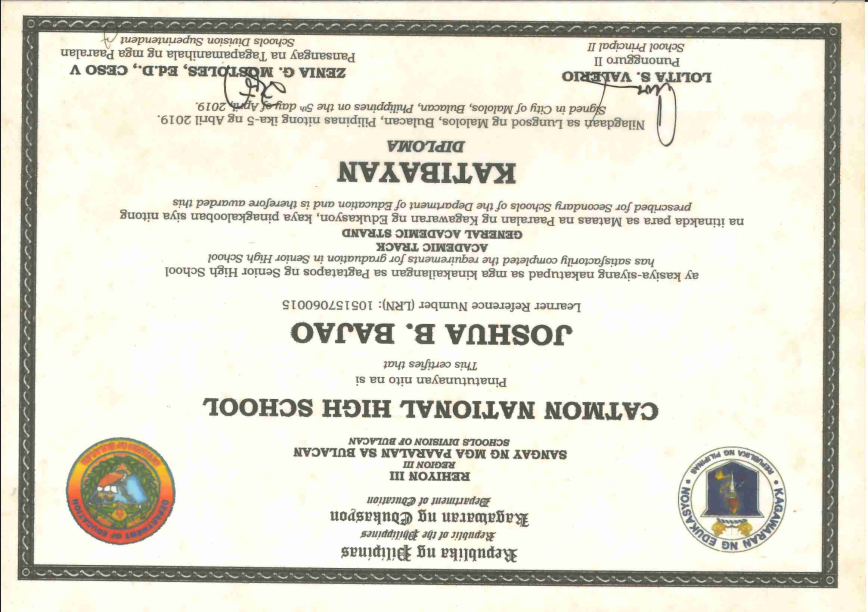
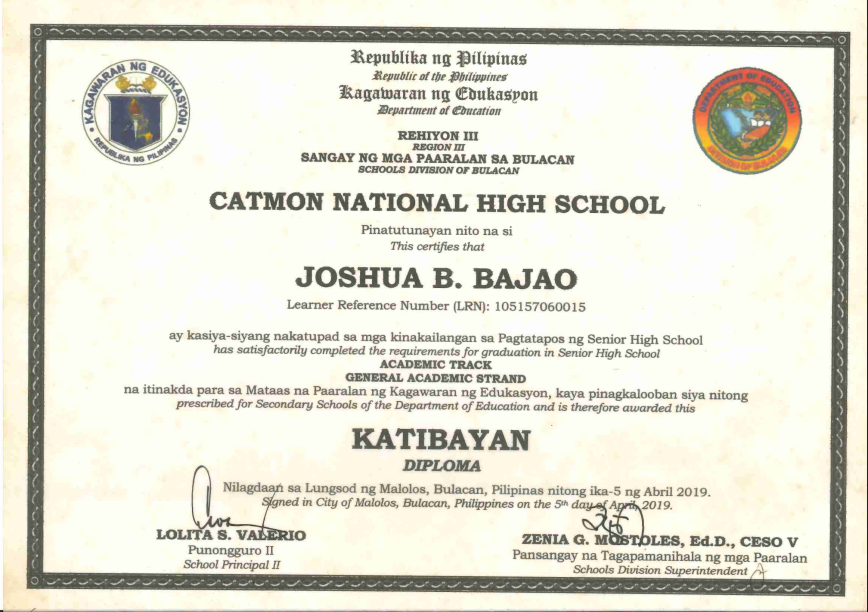
Fix two certificates left upside down by the earlier rotation fix
The high school diploma and IOCP verification letter needed the
opposite 90-degree rotation from the other two certificates, so the
earlier blanket rotation flipped them 180 degrees instead of
correcting them. Rotate them the remaining 180 degrees and bump their
cache-busting query so the fix shows immediately.

diff --git a/about.html b/about.html
@@ -162,8 +162,8 @@
                             <div class="cert-carousel-track">
                                 <a class="cert-carousel-item" href="assets/certificates/filipino-institute-hr-admin-certificate.png?v=2" target="_blank" rel="noreferrer"><img src="assets/certificates/filipino-institute-hr-admin-certificate.png?v=2" alt="Filipino Institute of Qatar HR and Admin Professional certificate"><span>HR &amp; Admin &middot; Filipino Institute</span></a>
                                 <a class="cert-carousel-item" href="assets/certificates/iocp-hr-admin-certificate.png?v=2" target="_blank" rel="noreferrer"><img src="assets/certificates/iocp-hr-admin-certificate.png?v=2" alt="IOCP Human Resource and Admin Professional certificate"><span>IOCP Certificate</span></a>
-                                <a class="cert-carousel-item" href="assets/certificates/iocp-verification-letter.png?v=2" target="_blank" rel="noreferrer"><img src="assets/certificates/iocp-verification-letter.png?v=2" alt="IOCP verification and endorsement letter"><span>Verification Letter</span></a>
-                                <a class="cert-carousel-item" href="assets/certificates/high-school-diploma.png?v=2" target="_blank" rel="noreferrer"><img src="assets/certificates/high-school-diploma.png?v=2" alt="Catmon National High School diploma"><span>High School Diploma</span></a>
+                                <a class="cert-carousel-item" href="assets/certificates/iocp-verification-letter.png?v=3" target="_blank" rel="noreferrer"><img src="assets/certificates/iocp-verification-letter.png?v=3" alt="IOCP verification and endorsement letter"><span>Verification Letter</span></a>
+                                <a class="cert-carousel-item" href="assets/certificates/high-school-diploma.png?v=3" target="_blank" rel="noreferrer"><img src="assets/certificates/high-school-diploma.png?v=3" alt="Catmon National High School diploma"><span>High School Diploma</span></a>
                             </div>
                         </div>
                     </div>
